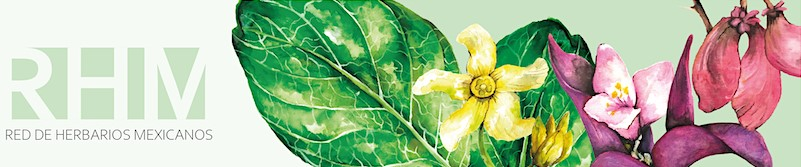
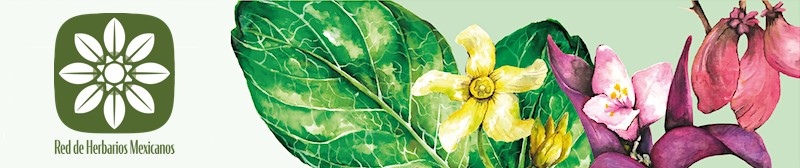
Update header image

diff --git a/includes/header.php b/includes/header.php
@@ -36,7 +36,7 @@ $collectionSearchPage = $SHOULD_USE_HARVESTPARAMS ? '/collections/index.php' : '
 			</nav>
 			<div class="top-brand">
 				<a href="<?= $CLIENT_ROOT ?>">
-					<div class="image-container">
+					<div class="image-container" style="height:126px">
 						<img src="<?= $CLIENT_ROOT ?>/images/layout/header_med2_reducido.jpeg" alt="RHM Logo">
 					</div>
 				</a>
